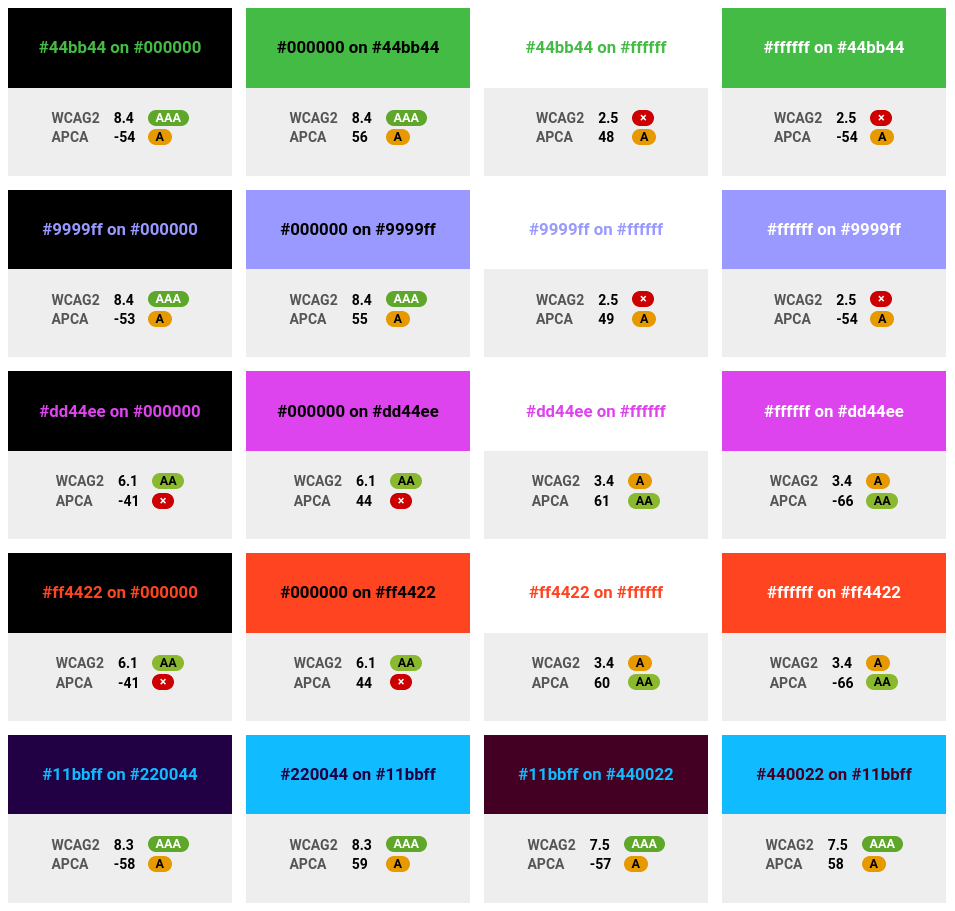
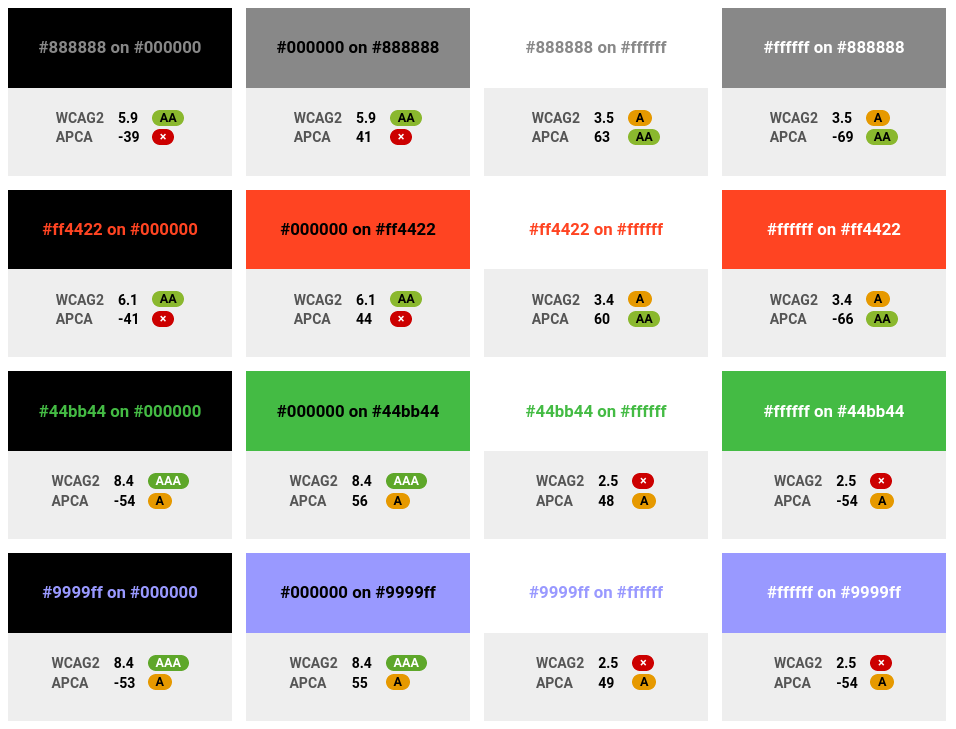
changes examples
- add grey
- reduce back to 4
- RGB order

diff --git a/examples/examples.js b/examples/examples.js
@@ -4,11 +4,10 @@ import * as apca from '../apca.js';
 const LEVEL_LABELS = ['×', 'A', 'AA', 'AAA'];
 
 const COLORS = [
+	['#888888', '#000000', '#ffffff'],
+	['#ff4422', '#000000', '#ffffff'],
 	['#44bb44', '#000000', '#ffffff'],
 	['#9999ff', '#000000', '#ffffff'],
-	['#dd44ee', '#000000', '#ffffff'],
-	['#ff4422', '#000000', '#ffffff'],
-	['#11bbff', '#220044', '#440022'],
 ];
 
 var parseColor = function(c) {
